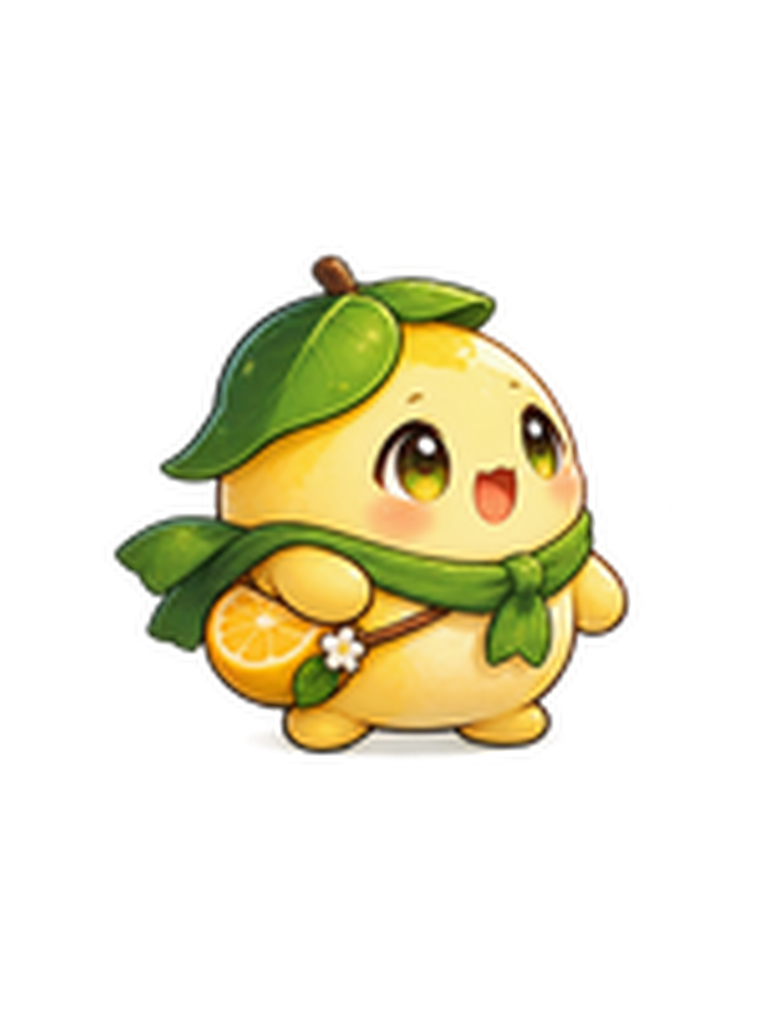
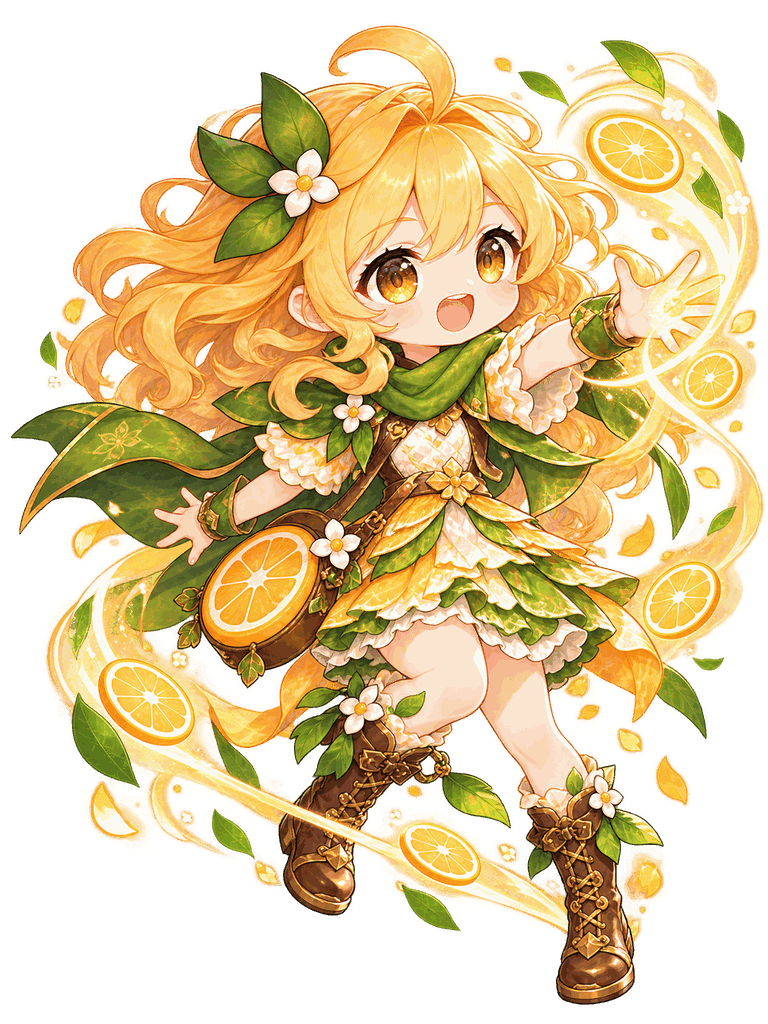
Redesign Yuzu as a human chibi fighter

diff --git a/game.js b/game.js
@@ -42,7 +42,7 @@ function clampPlayerStats(p){ if(p._uqGlass){p.maxhp=Math.max(1,Math.round(p.max
 const TAU = Math.PI * 2;   // global — Game scene (บอส/VFX) อ้างถึง TAU ด้วย เดิมประกาศเฉพาะใน Boot.create → "TAU is not defined"
 
 /* ---- เวอร์ชัน + บันทึกUpdates (build-www ดึงไปทำ version.json ให้หน้า download) ---- */
-const GAME_VERSION = '5.87.0';
+const GAME_VERSION = '5.88.0';
 // v5.79: ประตูทางแยกหลังมินิบอส (เลือก 3 จาก 5)
 const CROSSROADS=[
   {id:'treasure',emoji:'💰',name:'Treasure Room',desc:'Loot + a swarm',color:0xffd166},
@@ -54,6 +54,7 @@ const CROSSROADS=[
 const HURT_IFRAME_MUL = 0.6;
 const RELEASES_URL = 'https://github.com/hardza1230/Survival-like-Mobile-Game/releases/download/latest/mochi-mayhem-debug.apk';
 const CHANGELOG = [
+  { v:'5.88.0', date:'2026-09-27', title:'Human Yuzu character art', items:['Yuzu now uses a human chibi fighter sprite matching the other heroes','Updated all eight animation poses and the character selection portrait','Yuzling and Cheese companion art remains as before'] },
   { v:'5.87.0', date:'2026-09-27', title:'Yuzu and the Citrus Crew', items:['Yuzu replaces Sesame as the fifth story fighter; previously owned Sesame stays available as a secret fighter','Yuzlings fight alongside Yuzu, recover after tiring, and gain three distinct Build Paths','Added animated Yuzu, Yuzling and Cheese sheets; Cheese helps in the Workshop path'] },
   { v:'5.86.0', date:'2026-09-27', title:'Taro and Sesame join the roster', items:['Clear C2-1 to unlock Taro and C2-5 to unlock Sesame','Existing saves that already cleared those stages unlock them automatically','Fighter cards now show their real play styles and unlock goals'] },
   { v:'5.85.0', date:'2026-09-27', title:'Challenge Tickets and Temple recipes', items:['Select curses instead of a plain difficulty row; challenge tickets cost Sugar and improve rewards','Temple cores use Sugar; Weave Thread promotes ranks and resets Perks or Kitchen','Kitchen gains two triggers, two effects and two signature dishes; Bazaar stock can refresh three times daily'] },

diff --git a/CLAUDE.md b/CLAUDE.md
@@ -62,6 +62,8 @@
   · ต้องเปิด Pages ครั้งแรก: Settings→Pages→Source: GitHub Actions
   · **หมายเหตุ:** เพราะ server.url ชี้ Pages → APK ตัวใหม่ต้อง build หลังตั้ง Pages (ตัว build แรกสุดยังเป็นออฟไลน์)
 
+## 4. สถานะปัจจุบัน (อัปเดตล่าสุด: v5.88.0 — Human Yuzu Art)
+- **v5.88.0:** เปลี่ยน Yuzu จากโมจิทรงกลมเป็นตัวละครร่างคน chibi ตาม Mint/Taro, แทน sprite sheet 8 เฟรมและการ์ดตัวละคร, ลูกสมุนกับ Cheese คงเดิม · ตรวจ PNG / build / validators ผ่าน
 ## 4. สถานะปัจจุบัน (อัปเดตล่าสุด: v5.87.0 — Yuzu Citrus Crew)
 - **v5.87.0:** Yuzu เป็นนักอัญเชิญตัวละครหลักลำดับ 5 หลังผ่าน C2-5; Sesame เก็บเป็นตัวลับสำหรับเซฟที่มีอยู่ (`docs/YUZU_CITRUS_CREW.md`) · เพิ่มการ์ด 5, Build Path 3, Mutation 3, Evolution/Unique, ลูกส้มและ Cheese ผู้ช่วย Workshop พร้อม sprite sheet โปร่งใส 8 เฟรม · `npm run check`, build:www และ runtime harness ผ่าน · **ถัดไป:** เล่นทดสอบบนมือถือจริงและจูนจำนวน/ดาเมจลูกสมุน, ทำ art card เต็มตัวหากภาพตัวละครบนหน้าเลือกยังไม่ชัด
 ## 4. สถานะปัจจุบัน (อัปเดตล่าสุด: v5.84.0 — Sugar Orders)

diff --git a/docs/YUZU_CITRUS_CREW.md b/docs/YUZU_CITRUS_CREW.md
@@ -12,6 +12,8 @@ Yuzu is the fifth story fighter, unlocked on clearing C2-5. Sesame is now a secr
 
 ## Art and runtime
 
+Yuzu was revised in v5.88 into a human chibi fighter with an amber-haired citrus summoner silhouette, matching the other playable characters. Her selection portrait was also replaced. Yuzling and Cheese remain small companion creatures.
+
 Generated transparent sheets were normalized to exactly 512×256, 4×2 frames of 128×128. Files: `assets/characters/yuzu_sheet.png`, `yuzling_sheet.png`, `cheese_sheet.png`; Yuzu portrait: `assets/character_cards/card_yuzu.png`. `ASSET_SHEETS` loads the three sheets, and the minions use short looping movement animations. Yuzu uses the game's existing 8-pose player animation conventions.
 
 ## Verification and remaining playtest
